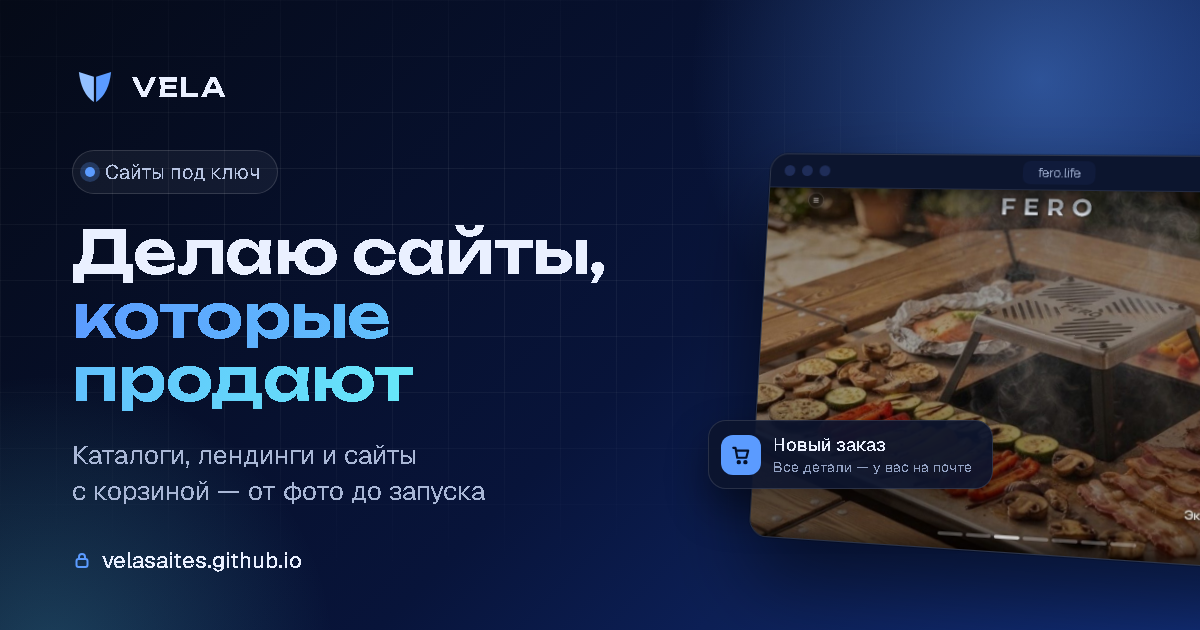
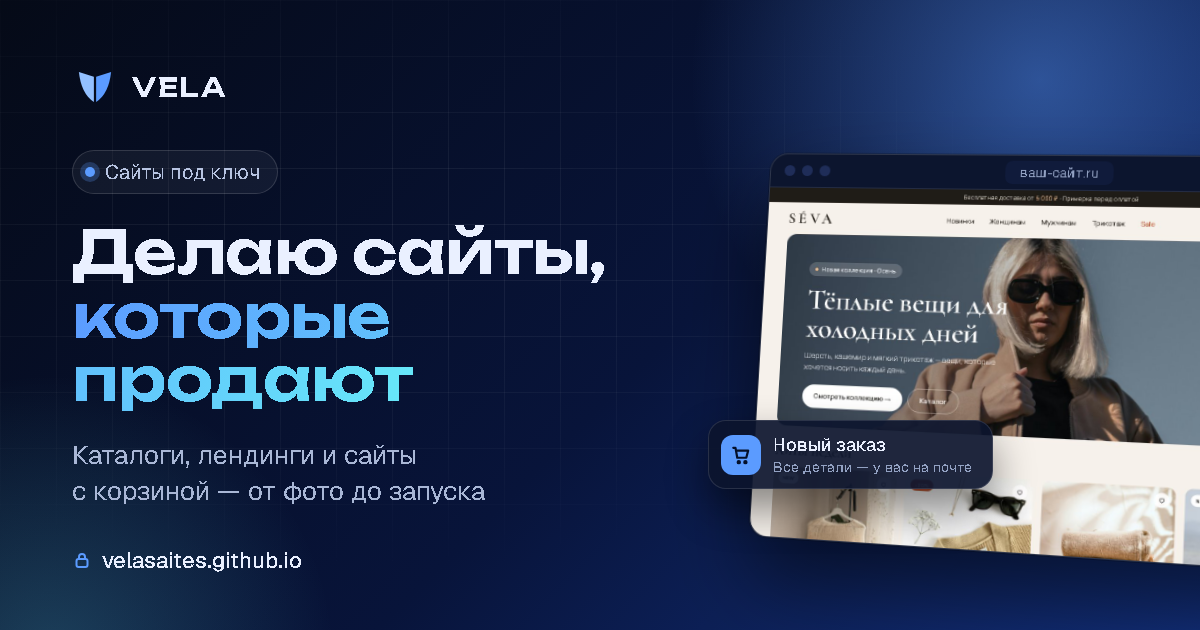
Первый экран: демо-сайт магазина одежды вместо FERO
На ноутбуке и телефоне в витрине — пример сайта выдуманного магазина SÉVA
с адресом «ваш-сайт.ru», собранный из бесплатных фото Unsplash (авторы — в README).
Картинка-превью для мессенджеров обновлена так же. FERO остаётся в блоке «Работы».

Changed region(s): [[0.6167, 0.2714, 1.0, 0.9048]]

diff --git a/app/page.tsx b/app/page.tsx
@@ -27,7 +27,6 @@ const serviceSpan: Record<string, string> = {
 };
 
 const telegramHandle = site.contacts.telegram.replace(/^https:\/\/t\.me\//, "@");
-const featured = site.works[0];
 
 function SectionTitle({ eyebrow, title, text }: { eyebrow: string; title: string; text?: string }) {
   return (
@@ -44,7 +43,7 @@ function SectionTitle({ eyebrow, title, text }: { eyebrow: string; title: string
   );
 }
 
-function BrowserBar({ url }: { url: string }) {
+function BrowserBar({ host }: { host: string }) {
   return (
     <div className="flex h-8 items-center gap-3 border-b border-line bg-surface px-3" aria-hidden="true">
       <span className="flex gap-1.5">
@@ -54,34 +53,36 @@ function BrowserBar({ url }: { url: string }) {
       </span>
       <span className="mx-auto flex items-center gap-1.5 rounded-md bg-surface-2 px-3 py-0.5 text-[11px] text-muted">
         <LockIcon className="size-3" />
-        {new URL(url).host}
+        {host}
       </span>
       <span className="w-[42px]" />
     </div>
   );
 }
 
-// Витрина на первом экране: окно браузера с последней работой, телефон и «живые» карточки вокруг.
-// При наведении на витрину окно и телефон плавно разворачиваются к зрителю (.showcase в globals.css).
-function HeroShowcase({ work }: { work: (typeof site.works)[number] }) {
+// Витрина на первом экране: пример сайта на компьютере и телефоне и «живые» карточки вокруг.
+// Картинки и адрес — showcase в content/site.json. При наведении окно и телефон плавно разворачиваются
+// к зрителю (.showcase в globals.css).
+function HeroShowcase() {
+  const { showcase } = site;
   return (
     <div className="showcase rise relative mx-auto w-full max-w-xl pb-6 [--d:200ms] lg:max-w-none">
       <div className="absolute inset-x-8 inset-y-10 rounded-full bg-accent/30 blur-3xl" aria-hidden="true" />
-      <a href={work.url} className="relative block" aria-label={`Открыть сайт ${work.title}`}>
+      <div className="relative">
         <div className="tilt overflow-hidden rounded-2xl border border-line bg-surface shadow-2xl shadow-black/30">
-          <BrowserBar url={work.url} />
+          <BrowserBar host={showcase.host} />
           <Image
-            src={`${base}/works/${work.image}`}
-            alt={`Главная страница сайта ${work.title}`}
-            width={1200}
-            height={750}
+            src={`${base}/works/${showcase.image}`}
+            alt={showcase.alt}
+            width={1280}
+            height={800}
             loading="eager"
             fetchPriority="high"
             sizes="(min-width: 1024px) 640px, 100vw"
             className="h-auto w-full"
           />
         </div>
-      </a>
+      </div>
 
       <div className="float pointer-events-none absolute -left-2 top-10 [--d:-1s] sm:-left-8" aria-hidden="true">
         <div className="flex items-center gap-3 rounded-2xl border border-line bg-surface/90 p-2.5 pr-4 shadow-xl shadow-black/15 backdrop-blur-xl">
@@ -104,30 +105,28 @@ function HeroShowcase({ work }: { work: (typeof site.works)[number] }) {
         </div>
       </div>
 
-      {"imageMobile" in work && (
-        <div className="float pointer-events-none absolute -bottom-6 -right-1 w-[24%] [--d:-2.5s] sm:-right-6" aria-hidden="true">
-          {/* Телефон в 3D: боковая грань даёт толщину, корпус со статус-строкой и «островком», снимок мобильной версии, блик на стекле */}
-          <div className="phone-3d relative">
-            <span className="phone-edge" />
-            <div className="relative rounded-[1.6rem] bg-[#0b0f1c] p-[4px] shadow-2xl shadow-black/50 ring-1 ring-white/15">
-              <div className="relative overflow-hidden rounded-[1.35rem] bg-[#121212]">
-                <div className="flex aspect-[10/1] items-center justify-center">
-                  <span className="h-[46%] w-[32%] rounded-full bg-black" />
-                </div>
-                <Image
-                  src={`${base}/works/${work.imageMobile}`}
-                  alt=""
-                  width={480}
-                  height={1039}
-                  sizes="(min-width: 1024px) 170px, 25vw"
-                  className="h-auto w-full"
-                />
-                <span className="phone-glare absolute inset-0" />
+      <div className="float pointer-events-none absolute -bottom-6 -right-1 w-[24%] [--d:-2.5s] sm:-right-6" aria-hidden="true">
+        {/* Телефон в 3D: боковая грань даёт толщину, корпус со статус-строкой и «островком», снимок мобильной версии, блик на стекле */}
+        <div className="phone-3d relative">
+          <span className="phone-edge" />
+          <div className="relative rounded-[1.6rem] bg-[#0b0f1c] p-[4px] shadow-2xl shadow-black/50 ring-1 ring-white/15">
+            <div className="relative overflow-hidden rounded-[1.35rem] bg-[#121212]">
+              <div className="flex aspect-[10/1] items-center justify-center">
+                <span className="h-[46%] w-[32%] rounded-full bg-black" />
               </div>
+              <Image
+                src={`${base}/works/${showcase.imageMobile}`}
+                alt=""
+                width={480}
+                height={1039}
+                sizes="(min-width: 1024px) 170px, 25vw"
+                className="h-auto w-full"
+              />
+              <span className="phone-glare absolute inset-0" />
             </div>
           </div>
         </div>
-      )}
+      </div>
     </div>
   );
 }
@@ -198,7 +197,7 @@ export default function Home() {
                   </a>
                 </div>
               </div>
-              {featured && <HeroShowcase work={featured} />}
+              <HeroShowcase />
             </div>
 
             <dl className="rise mt-16 grid overflow-hidden rounded-3xl border border-line bg-surface/70 backdrop-blur [--d:320ms] sm:mt-20 sm:grid-cols-3">
@@ -267,7 +266,7 @@ export default function Home() {
                   <a href={work.url} className="relative flex items-center overflow-hidden p-5 sm:p-10">
                     <div className="work-backdrop absolute inset-0" aria-hidden="true" />
                     <div className="relative w-full overflow-hidden rounded-xl border border-line bg-surface shadow-2xl shadow-black/25 transition duration-700 group-hover:-translate-y-1.5 group-hover:scale-[1.015]">
-                      <BrowserBar url={work.url} />
+                      <BrowserBar host={new URL(work.url).host} />
                       <Image
                         src={`${base}/works/${work.image}`}
                         alt={`Главная страница сайта ${work.title}`}

diff --git a/README.md b/README.md
@@ -10,7 +10,8 @@
 | Все тексты: имя, услуги, работы, шаги, цены, вопросы, контакты | `content/site.json` |
 | Цены и сроки | `pricing` в `content/site.json` (карточка с `"featured": true` выделяется цветом) |
 | Картинка-превью ссылки в мессенджерах | `app/opengraph-image.png` (1200×630), подпись — `app/opengraph-image.alt.txt` |
-| Картинки работ | `public/works/` (имя файла — в `works[].image` в `site.json`; снимок мобильной версии для телефона на первом экране — `works[].imageMobile`) |
+| Картинки работ | `public/works/` (имя файла — в `works[].image` в `site.json`) |
+| Ноутбук и телефон на первом экране | `showcase` в `site.json`: адрес в строке браузера и снимки `public/works/showcase-desktop.jpg` (1280×800), `showcase-mobile.jpg` (480 px в ширину) |
 | Вёрстка страницы | `app/page.tsx` |
 | Мини-иллюстрации в карточках услуг | `components/ServiceVisual.tsx` (какую показать — `services[].visual` в `site.json`) |
 | Цвета, шрифты и анимации | `app/globals.css`, `app/layout.tsx` |
@@ -34,3 +35,14 @@ npm run dev
 
 Репозиторий открытый — код видит любой. Никаких паролей, токенов и личных данных
 (фамилия, адрес, школа, телефон) в файлах.
+
+## Фото на первом экране
+
+На ноутбуке и телефоне — пример сайта выдуманного магазина одежды SÉVA, собранный из бесплатных
+фотографий [Unsplash](https://unsplash.com) (лицензия Unsplash разрешает коммерческое использование):
+
+- девушка в бежевой куртке — mojtaba mosayebzadeh, https://unsplash.com/photos/nTLcbrCUVBQ
+- девушка в бежевом пальто у воды — Margo Evardson, https://unsplash.com/photos/dnCcCJvk0Ic
+- свитер на вешалке — Yuliia Pakhomova, https://unsplash.com/photos/nU5cyclcWuA
+- кардиган и очки — Priscilla Luna Riguera, https://unsplash.com/photos/PbzOBFz8Ulc
+- стопка свитеров — Meg MacDonald, https://unsplash.com/photos/9cxiJMMUJZ4
